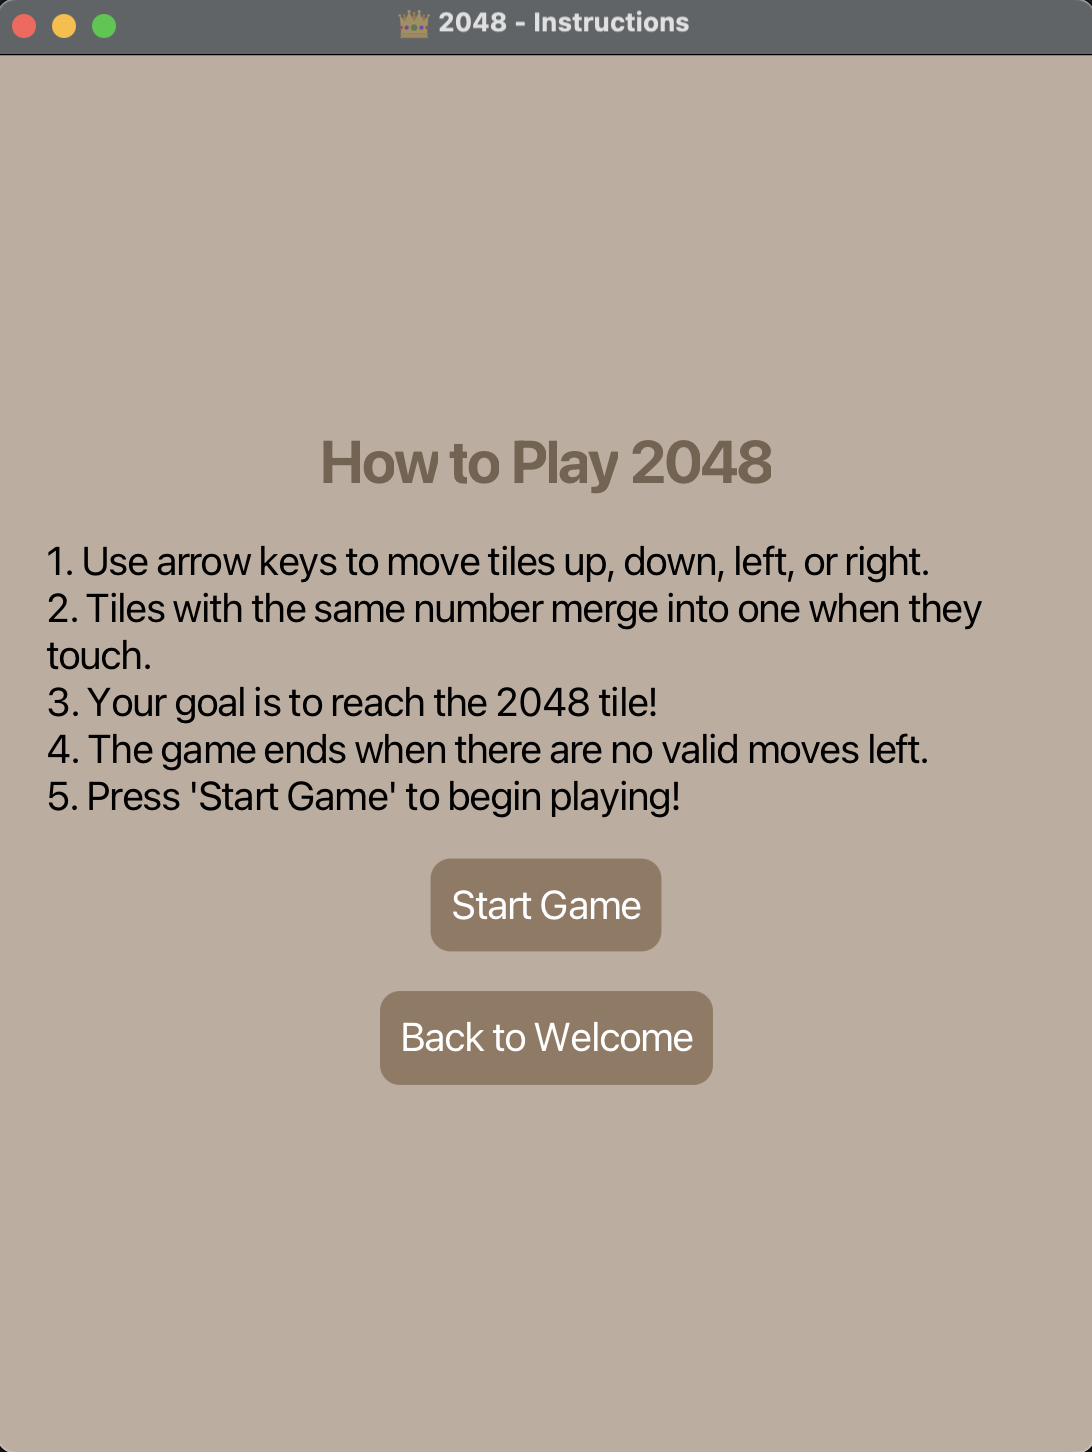
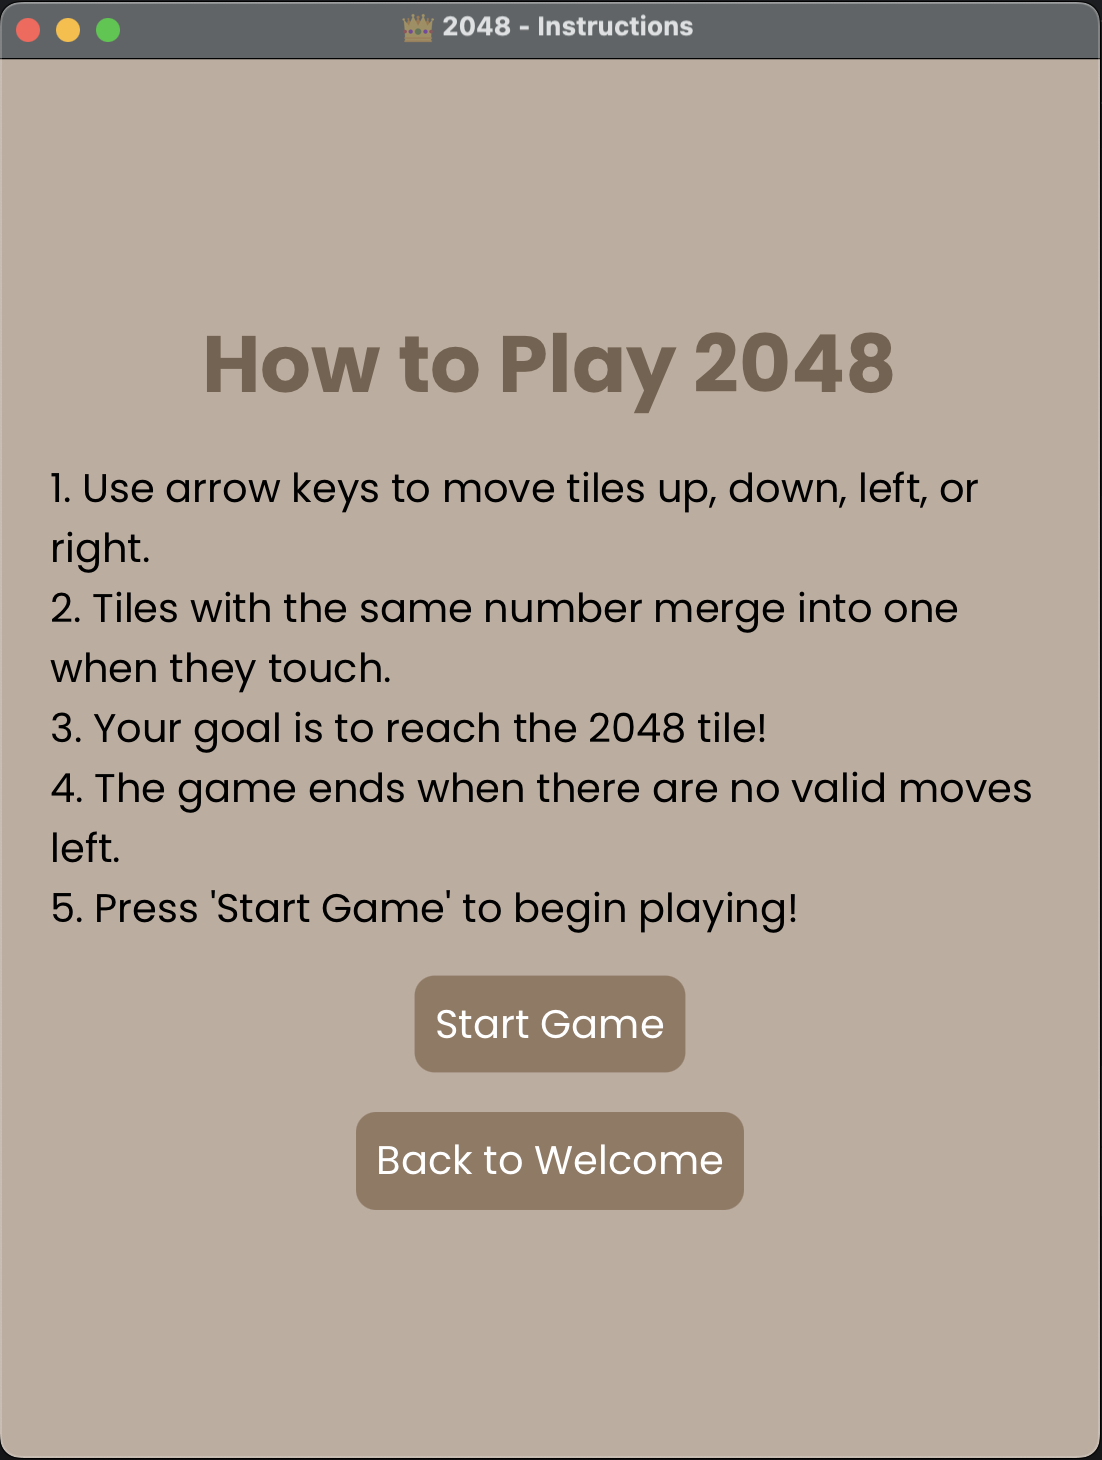
Final: Game working

diff --git a/src/main/java/org/example/game2048javafx/Main.java b/src/main/java/org/example/game2048javafx/Main.java
@@ -38,14 +38,24 @@ public class Main extends Application {
    */
   private void showWelcomeScene(Stage stage) {
     VBox welcomeLayout = new VBox(20);
+    Font poppinsBold =
+        Font.loadFont(
+            getClass().getResourceAsStream("/org/example/game2048javafx/fonts/Poppins-Bold.ttf"),
+            40);
+    Font poppinsRegular =
+        Font.loadFont(
+            getClass().getResourceAsStream("/org/example/game2048javafx/fonts/Poppins-Regular.ttf"),
+            20);
+
     welcomeLayout.setStyle(
         "-fx-padding: 20; -fx-alignment: center; -fx-background-color: #bbada0;");
 
     Text title = new Text("Welcome to 2048!");
-    title.setFont(Font.font("Poppins", 40));
+    title.setFont(poppinsBold);
     title.setStyle("-fx-font-family: 'Poppins'; -fx-fill: #736352; -fx-font-weight: bold;");
 
     Button startButton = new Button("Start Game");
+    startButton.setFont(poppinsRegular);
     startButton.setStyle(
         "-fx-padding: 10; -fx-background-color: #8f7a66; -fx-text-fill: white; -fx-font-size: 20px; -fx-background-radius: 10; -fx-font-family: 'Poppins';");
     startButton.setOnAction(event -> showGameScene(stage));
@@ -64,6 +74,7 @@ public class Main extends Application {
     instructionsButton.setStyle(
         "-fx-padding: 10; -fx-background-color: #8f7a66; -fx-text-fill: white; -fx-font-size: 20px; -fx-background-radius: 10; -fx-font-family: 'Poppins';");
     instructionsButton.setOnAction(event -> showInstructionsScene(stage));
+    instructionsButton.setFont(poppinsRegular);
 
     instructionsButton.setOnMouseEntered(
         event ->
@@ -93,7 +104,7 @@ public class Main extends Application {
         "-fx-padding: 20; -fx-alignment: center; -fx-background-color: #bbada0;");
 
     Text instructionsTitle = new Text("How to Play 2048");
-    instructionsTitle.setFont(Font.font("Poppins", 30));
+    instructionsTitle.setFont(Font.font("Poppins", 40));
     instructionsTitle.setStyle(
         "-fx-font-family: 'Poppins'; -fx-fill: #736352; -fx-font-weight: bold;");
 
